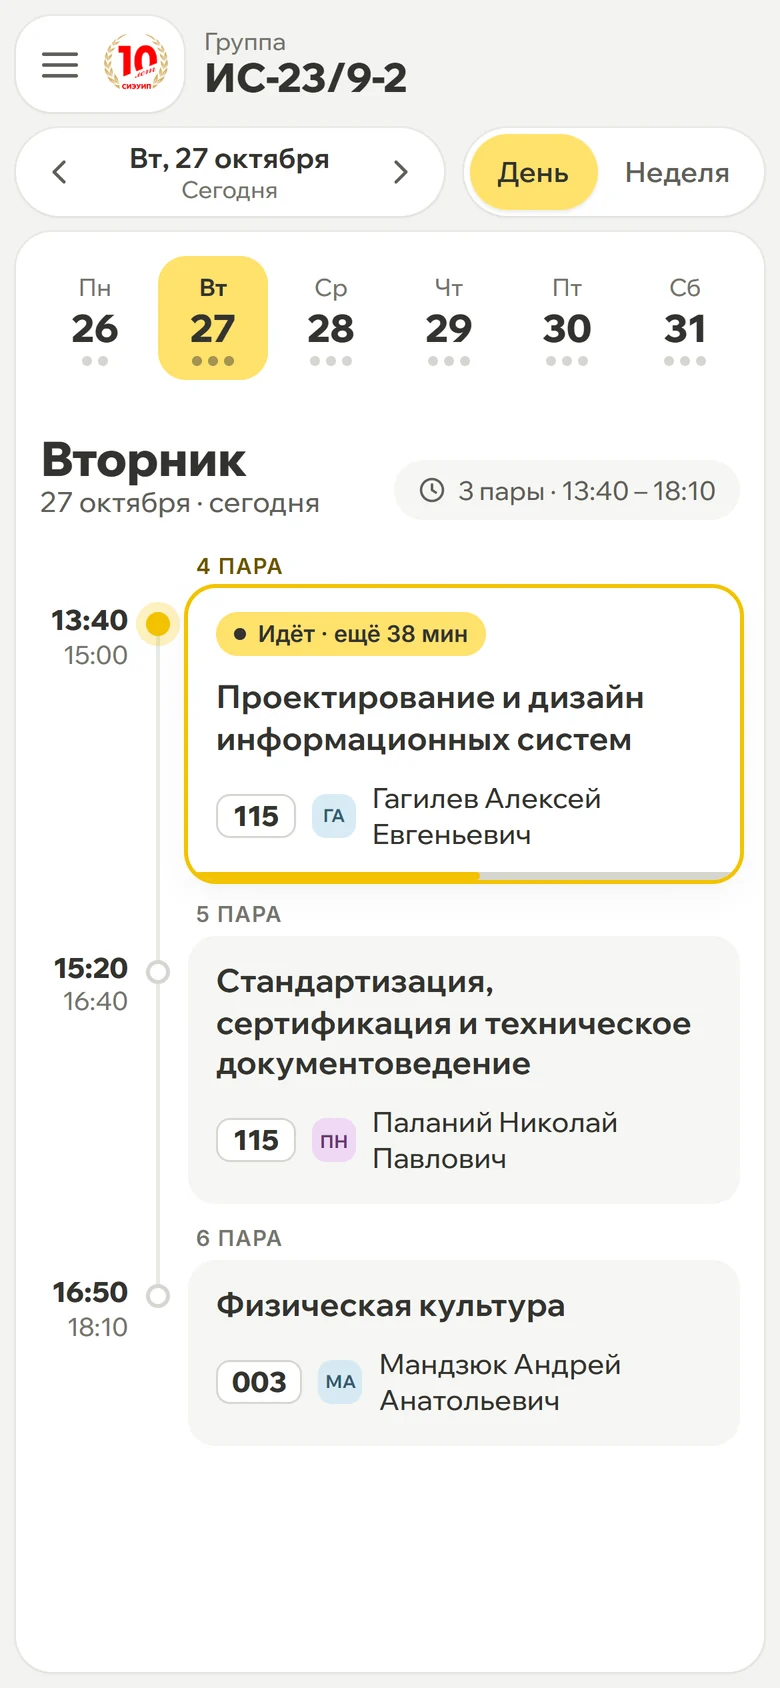
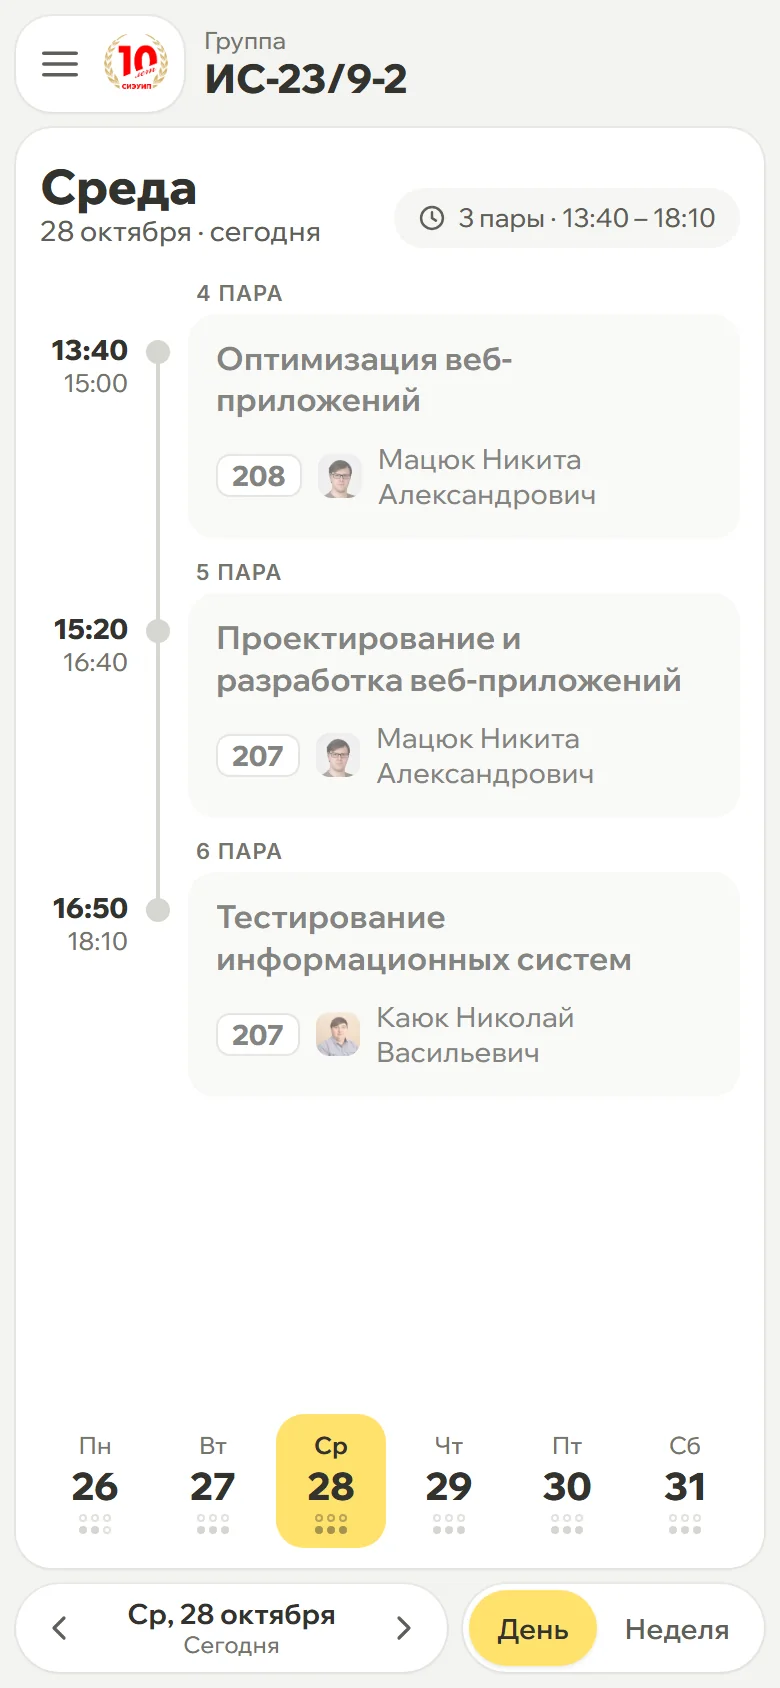
Update the presentation for GitHub Pages and phones
The "under the hood" slide now describes the static GitHub Pages setup
with direct API calls instead of the Vercel proxy, and the mobile slide
and feature tiles cover the bottom navigation, shift dots and install
shortcut. Mobile screenshots are retaken with the new bottom bar.

On phones the cover screenshot is no longer cropped at the sides, the
details slide shows the mobile sheet, and the header, tabs, table and
final address fit the screen.

diff --git a/docs/index.html b/docs/index.html
@@ -313,6 +313,61 @@
     .roadmap { display: flex; gap: 8px; justify-content: center; flex-wrap: wrap; margin-top: 28px; }
     .roadmap span { padding: 8px 14px; border-radius: 999px; background: var(--c-bg); box-shadow: var(--sh-sm); font-size: 14px; color: var(--c-text-2); }
     .foot { margin-top: 40px; font-size: 13px; color: var(--c-muted); }
+
+    .detail-shot .phone { display: none; }
+    /* ===== Телефоны ===== */
+    html, body { overflow-x: clip; }
+    @media (max-width: 600px) {
+      .topnav { top: 10px; left: 10px; right: 10px; gap: 8px; }
+      .brand { padding: 5px; font-size: 0; gap: 0; }   /* только логотип, без подписи */
+      .brand img { width: 32px; height: 32px; }
+      .topnav__right { gap: 6px; }
+      .pill-btn { height: 38px; padding: 0 14px; font-size: 13px; }
+      .counter { display: none; }
+
+      .slide { padding: 68px 16px 40px; }
+      .hero { padding-top: 68px; }
+      .eyebrow { font-size: 12px; margin-bottom: 14px; }
+      .lead { margin-top: 16px; }
+      .hero__cta .pill-btn { height: 48px; padding: 0 20px; font-size: 15px; }
+      .detail-shot .shot { display: none; }
+      .detail-shot .phone { display: block; margin: 0 auto; width: min(240px, 62vw); }
+      .hero__stage { margin-top: 32px; padding-bottom: 28px; }
+      /* скриншот целиком, без обрезки по бокам; телефон — поверх нижнего угла */
+      .hero__stage .shot { height: auto; transform: none; -webkit-mask-image: none; mask-image: none; }
+      .hero__stage .shot img { height: auto; object-fit: initial; }
+      .hero__stage .phone { top: auto; bottom: 0; right: 6px; width: 104px; border-radius: 22px; padding: 4px; }
+      .hero__stage .phone img { border-radius: 18px; }
+
+      .demo { padding: 16px; }
+      .demo__day { font-size: 24px; }
+      .demo__clock { font-size: 26px; }
+      .tl-row { grid-template-columns: 44px 14px 1fr; gap: 8px; }
+      .tl-time { font-size: 14px; }
+      .break { margin-left: 66px; }
+      .card { padding: 12px 14px; }
+      .card__title { font-size: 16px; }
+
+      .tabs { display: flex; width: 100%; margin-top: 22px; }
+      .tab { flex: 1; min-width: 0; padding: 10px 4px; font-size: 13px; }
+      .tab-copy { min-height: 0; }
+
+      .phones { gap: 12px; }
+      .phones .phone { width: min(200px, 44vw); border-radius: 32px; padding: 7px; }
+      .phones .phone img { border-radius: 26px; }
+      .phones .phone:nth-child(2) { margin-top: 32px; }
+
+      .table { font-size: 13px; }
+      .table th, .table td { padding: 9px 8px; }
+      .table th { font-size: 10.5px; letter-spacing: .03em; }
+
+      .tile { padding: 16px; }
+      .key-row { grid-template-columns: 84px 1fr; gap: 10px; padding: 10px 12px; }
+      .key-row.is-hit { transform: none; }
+      .node { padding: 16px; }
+      .qr { width: 168px; height: 168px; }
+      .final .h-xl { font-size: clamp(24px, 7.4vw, 32px); overflow-wrap: anywhere; }   /* длинный адрес в одну строку */
+    }
   </style>
 </head>
 <body>
@@ -451,7 +506,7 @@
     <!-- 6. Карточка пары -->
     <section class="slide" id="s-detail" data-title="Подробности пары">
       <div class="slide__inner split split--rev">
-        <div class="rv"><div class="shot"><img src="screenshots/modal-light.webp" alt="Окно с подробностями пары" width="1600" height="1000" loading="lazy"></div></div>
+        <div class="rv detail-shot"><div class="shot"><img src="screenshots/modal-light.webp" alt="Окно с подробностями пары" width="1600" height="1000" loading="lazy"></div><div class="phone"><img src="screenshots/mobile-modal-light.webp" alt="Подробности пары на телефоне" width="780" height="1688" loading="lazy"></div></div>
         <div>
           <span class="eyebrow rv">Один тап — всё о паре</span>
           <h2 class="h-lg rv">Где, кто, с кем</h2>
@@ -472,7 +527,12 @@
         <div>
           <span class="eyebrow rv">Сделано для телефона</span>
           <h2 class="h-lg rv">Расписание — в кармане, а не в зуме</h2>
-          <p class="lead rv">На телефоне открывается режим «День»: полоса дней недели сверху, свайп влево-вправо листает дни, подробности выезжают нижней шторкой. Все кнопки — от 44 px под палец.</p>
+          <p class="lead rv">На телефоне открывается режим «День». Всё управление — внизу, под большим пальцем: полоса дней недели и переключатель дня. Свайп листает дни, подробности выезжают нижней шторкой.</p>
+          <ul class="bullets rv">
+            <li><span class="ico">↓</span><span><b>Навигация снизу:</b> стрелки, «День / Неделя» и полоса дней — не нужно тянуться к верху экрана</span></li>
+            <li><span class="ico">⋮</span><span><b>Точки под числом</b> — по одной на каждую пару, в два ряда: первая и вторая смена; пустая точка — свободная пара</span></li>
+            <li><span class="ico">▢</span><span><b>Ярлык на экран:</b> добавьте на главный экран или рабочий стол — откроется как приложение</span></li>
+          </ul>
         </div>
         <div class="phones rv">
           <div class="phone"><img src="screenshots/mobile-day-light.webp" alt="День на телефоне, светлая тема" width="780" height="1688" loading="lazy"></div>
@@ -526,7 +586,9 @@
           <div class="tile"><div class="tile__ico">★</div><h3>Избранное</h3><p>Группы, преподаватели и кабинеты — в один клик, фильтр «только избранное».</p></div>
           <div class="tile"><div class="tile__ico">⌂</div><h3>Запоминает выбор</h3><p>Открываешь сайт — сразу твоя группа и твой режим просмотра.</p></div>
           <div class="tile"><div class="tile__ico">↻</div><h3>Всегда актуально</h3><p>Данные берутся напрямую из API sielom.ru, без копий и задержек.</p></div>
-          <div class="tile"><div class="tile__ico">⚡</div><h3>Быстро</h3><p>Запросы кэшируются, список сотрудников хранится локально сутки.</p></div>
+          <div class="tile"><div class="tile__ico">⚡</div><h3>Быстро</h3><p>Список сотрудников хранится локально сутки, шрифты и иконки — свои, ничего лишнего не грузится.</p></div>
+          <div class="tile"><div class="tile__ico">▢</div><h3>Как приложение</h3><p>Иконка, ярлык на рабочем столе или главном экране, запуск в отдельном окне.</p></div>
+          <div class="tile"><div class="tile__ico">✓</div><h3>Работает из России</h3><p>Без Google Fonts и чужих прокси: статика на GitHub Pages и прямые запросы к API.</p></div>
         </div>
       </div>
     </section>
@@ -536,19 +598,19 @@
       <div class="slide__inner">
         <span class="eyebrow rv">Под капотом</span>
         <h2 class="h-lg rv">Без фреймворков. Без сборки.</h2>
-        <p class="lead rv" style="max-width:60ch">Чистые HTML, CSS и JavaScript. Единственный серверный код — прокси на Vercel, который обходит CORS к официальному API.</p>
+        <p class="lead rv" style="max-width:60ch">Чистые HTML, CSS и JavaScript. Своего сервера нет вообще: сайт — статика на GitHub Pages, а браузер ходит в официальный API напрямую (он отдаёт CORS-заголовки).</p>
         <div class="arch rv">
-          <div class="node"><h3>Браузер</h3><code>index.html</code><code>styles.css</code><code>app.js</code></div>
+          <div class="node"><h3>GitHub Pages</h3><code>index.html · app.js</code><code>styles.css · fonts.css</code><code>шрифты, иконки</code></div>
           <div class="arrow">→</div>
-          <div class="node node--accent"><h3>Vercel</h3><code>/schedule/* → api/proxy.js</code><code>/strapi/* → api/proxy.js</code></div>
+          <div class="node node--accent"><h3>Браузер</h3><code>fetch напрямую,</code><code>без прокси</code></div>
           <div class="arrow">→</div>
           <div class="node"><h3>sielom.ru</h3><code>sielom.ru/schedule/api</code><code>strapi.sielom.ru/api</code></div>
         </div>
         <div class="stats rv">
           <div class="stat"><b>0</b><span>npm-зависимостей</span></div>
-          <div class="stat"><b>3</b><span>файла фронтенда</span></div>
+          <div class="stat"><b>4</b><span>файла фронтенда</span></div>
           <div class="stat"><b>~110 КБ</b><span>исходников целиком</span></div>
-          <div class="stat"><b>1</b><span>serverless-функция</span></div>
+          <div class="stat"><b>0</b><span>серверного кода</span></div>
         </div>
       </div>
     </section>
@@ -563,7 +625,7 @@
           <a class="pill-btn pill-btn--accent" href="https://nikkishura.github.io/my-sielom-web/" target="_blank" rel="noopener">Открыть расписание →</a>
           <a class="pill-btn" href="https://github.com/NikkiShuRA/my-sielom-web" target="_blank" rel="noopener">Исходный код</a>
         </div>
-        <div class="roadmap rv"><span>Скоро: уведомления о начале пары</span><span>Экспорт в календарь</span><span>PWA и офлайн</span></div>
+        <div class="roadmap rv"><span>Скоро: уведомления о начале пары</span><span>Экспорт в календарь</span><span>Офлайн-режим</span></div>
         <p class="foot">Неофициальный проект, не связан с СИЭУиП. Данные — с sielom.ru.</p>
       </div>
     </section>
